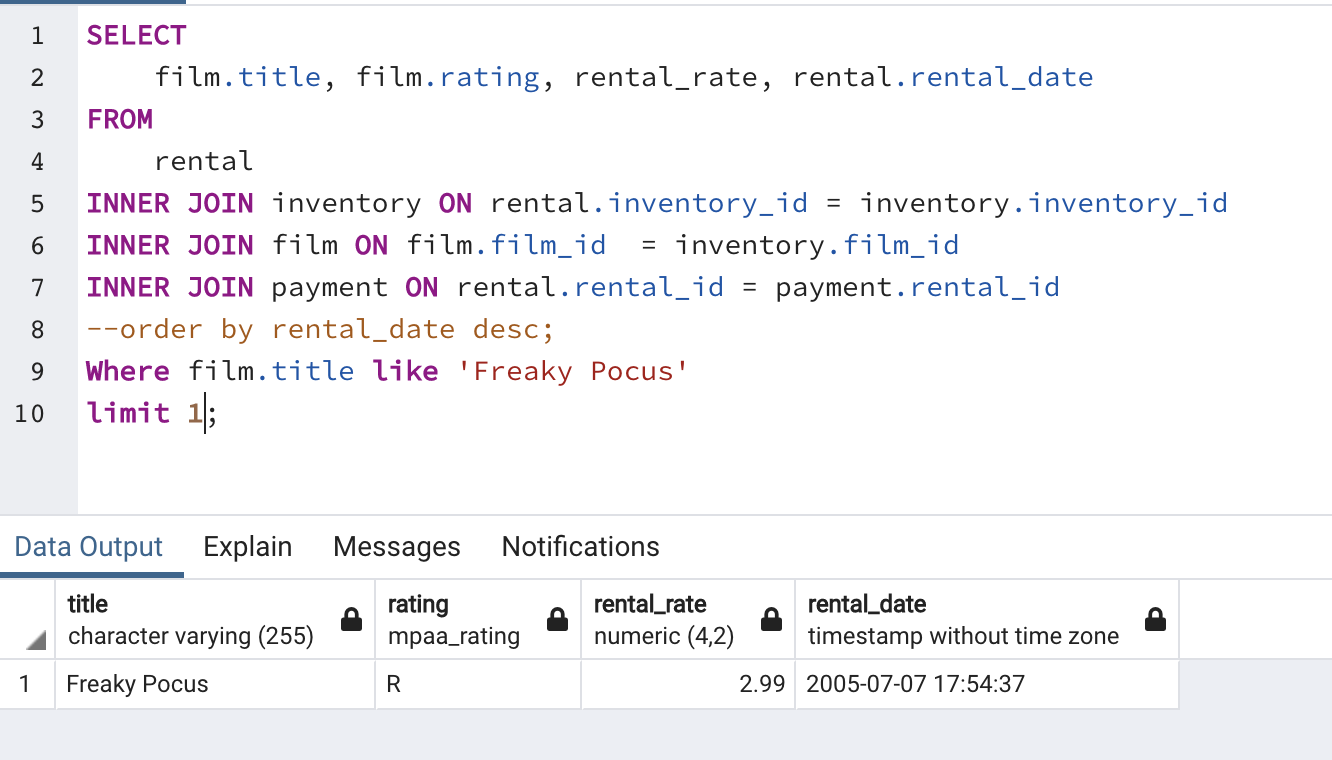
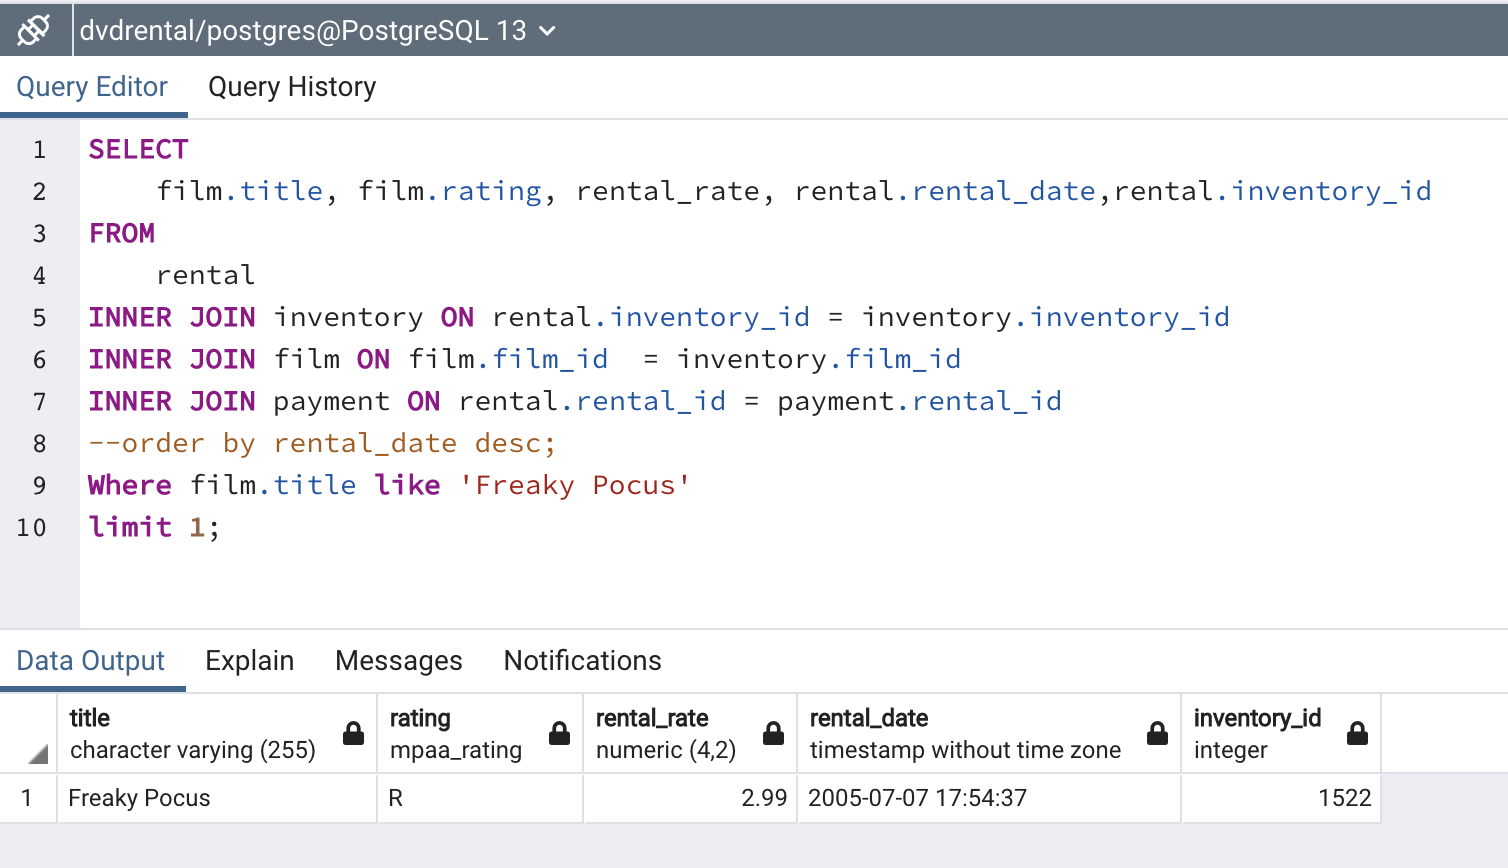
some revisions

diff --git a/README.md b/README.md
@@ -130,7 +130,8 @@ INNER JOIN payment ON rental.rental_id = payment.rental_id
 order by rental_date desc;
 ```
 
-To confirm that our data is correct I have compared the extraction query for one of the films. 
+To confirm that our data is correct I have selected the joined data that we extracted for our detailed summary and compared that to the original unextracted data. We can in fact see that "Freaky Pocus" reated R film was rented out on '2005-07-07 17:54:37'.
+
 ![](images/confirm1.png)
 ![](images/confirm2.png)
 
